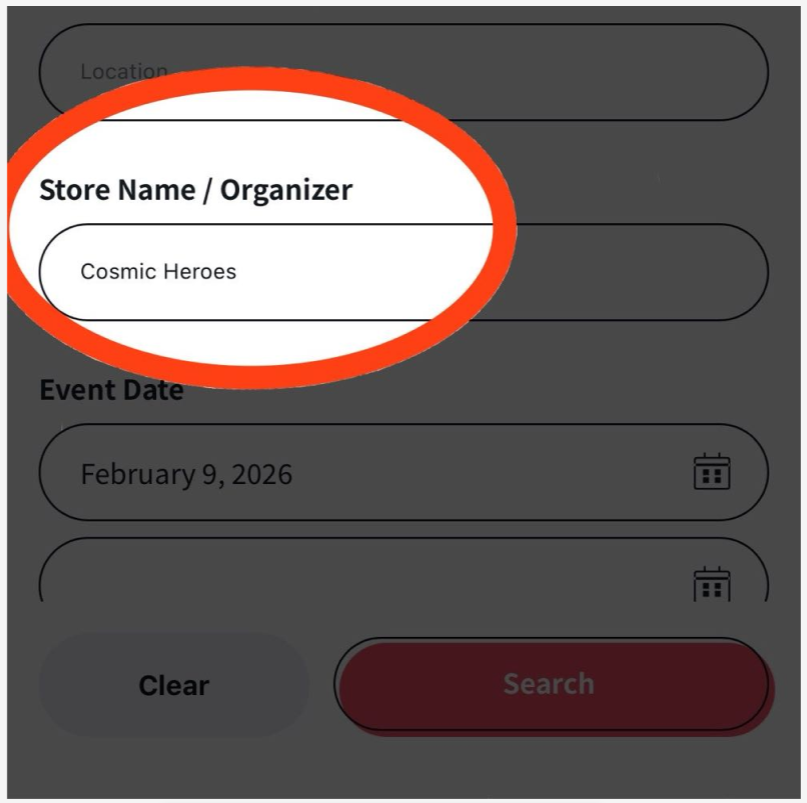
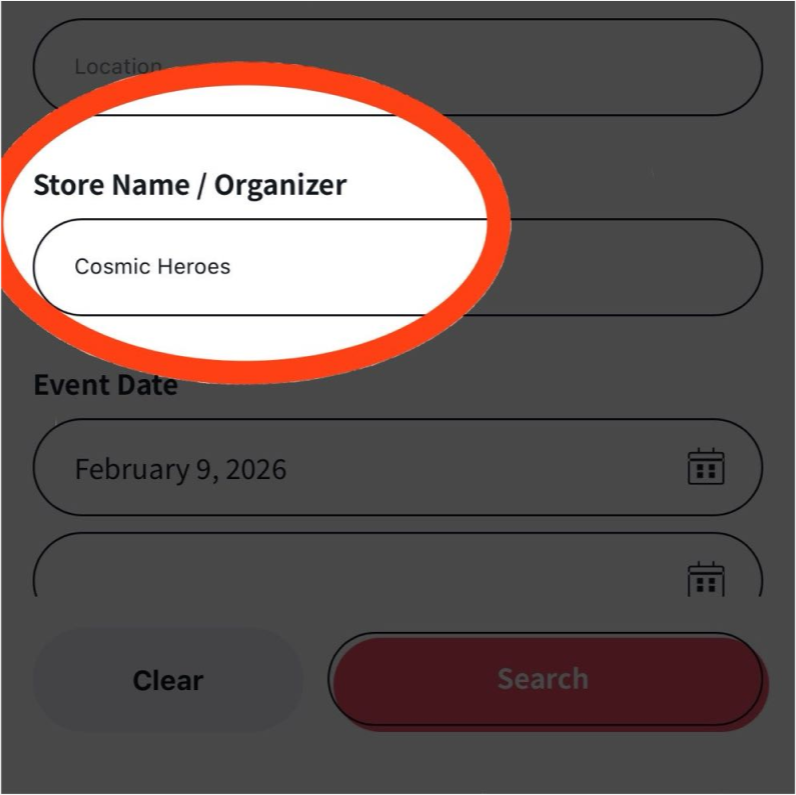
modified png's, updated checkin page text

diff --git a/app/components/CheckInScreen.tsx b/app/components/CheckInScreen.tsx
@@ -18,26 +18,26 @@ type Step = {
 const steps: Step[] = [
   {
     title: "Download the App.",
-    description: "This will be used for the official tournament",
-    imgSrc: "/checkin/bandai-tcgplus.png",
+    description: "This will be used for all tournament events.",
+    imgSrc: "/checkin/bandai-tcg-plus.png",
     imgAlt: "Bandai TCG+ app icon",
     link:   "https://apps.apple.com/us/app/bandai-tcg/id1599299476",
   },
   {
     title: "Create an Account.",
-    description: "Follow the in-app instructions for detailed creation.",
+    description: "Find the login button. Follow the in-app instructions to create an account.",
     imgSrc: "/checkin/create-account.png",
     imgAlt: "Create account screenshot",
   },
   {
     title: "Navigate to event search.",
-    description: 'In “Store Name / Organizer”, enter “Cosmic Heroes”',
-    imgSrc: "/checkin/event-search.png",
+    description: 'Under “Store Name / Organizer”, enter “Cosmic Heroes”.',
+    imgSrc: "/checkin/search-event.png",
     imgAlt: "Event search screenshot",
   },
   {
     title: "Apply to Today’s Event!",
-    description: "Find the event and submit your application to check in.",
+    description: "Find the event and hit apply to be in the event.",
     imgSrc: "/checkin/apply-event.png",
     imgAlt: "Apply to event screenshot",
   },

diff --git a/app/components/MainMenuScreen.tsx b/app/components/MainMenuScreen.tsx
@@ -23,7 +23,7 @@ export default function MainMenuScreen() {
       <div className="px-8 pt-4">
         {/* header */}
         <div className="mb-8">
-          <h1 className="text-2xl font-semibold">Pre-Event Guide</h1>
+          <h1 className="text-2xl font-semibold">Pre-Event Hub</h1>
 
           {isReturning && (
             <p className="text-sm text-gray-600 italic">
@@ -99,7 +99,7 @@ export default function MainMenuScreen() {
 
         {/* footer */}
         <div className="mt-12 text-xs text-gray-600 italic leading-relaxed">
-          <p>You’ll switch to BandaiTCG+ once the event begins.</p>
+          <p>You'll switch to BandaiTCG+ once the event begins.</p>
           <p>Feel free to come back to show others your trading list.</p>
         </div>
       </div>
